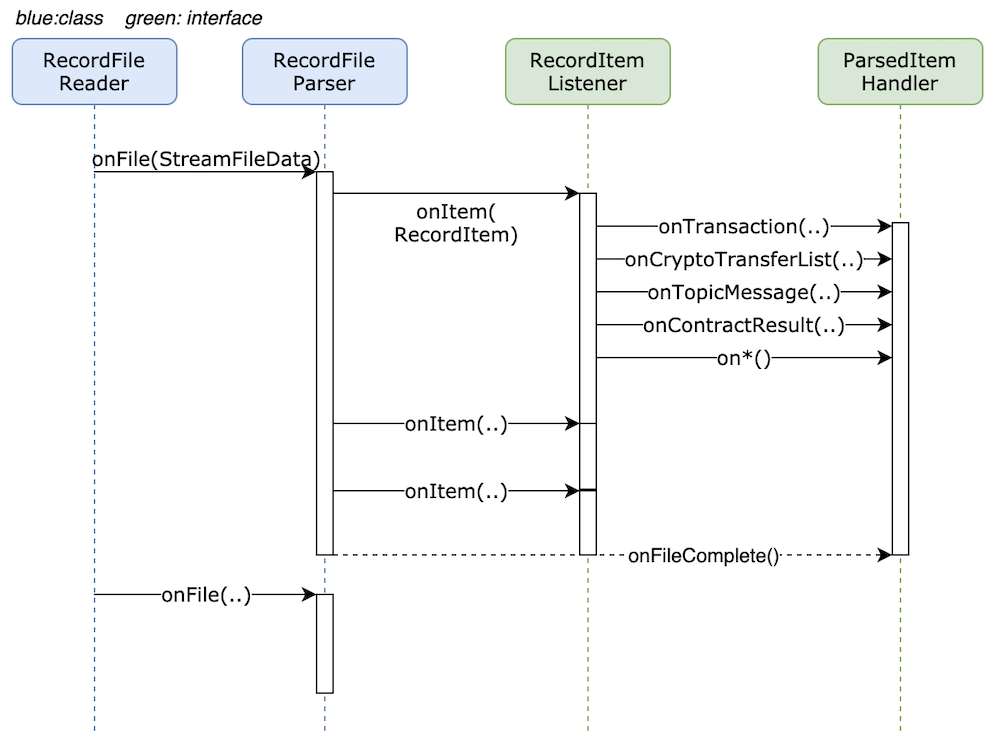
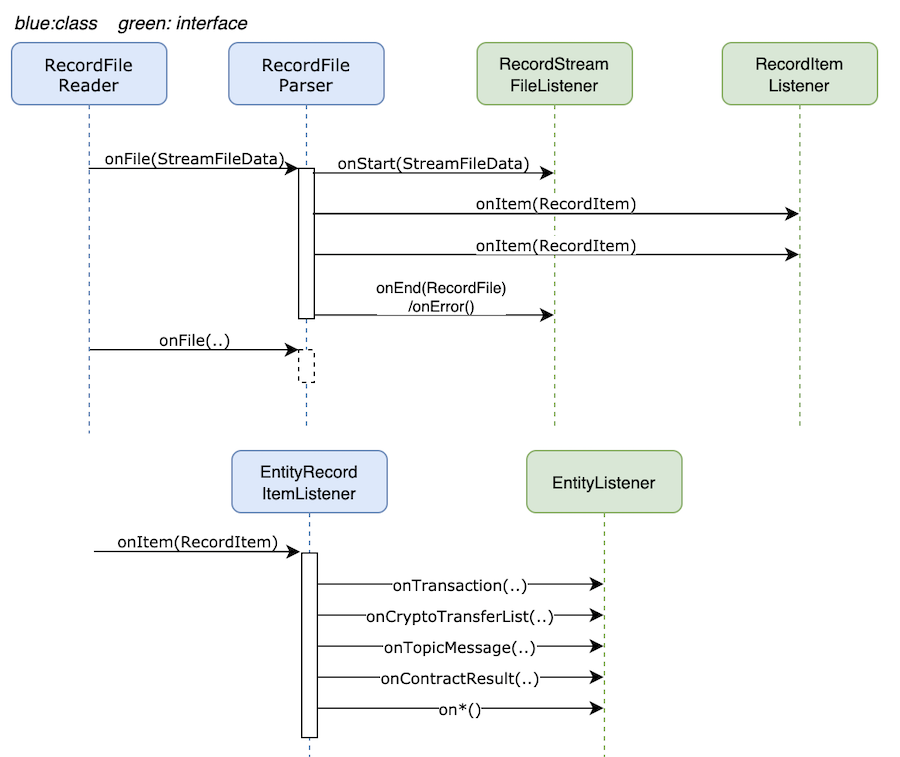
Update parser design doc

diff --git a/hedera-mirror-importer/src/test/java/com/hedera/mirror/importer/parser/record/entity/sql/SqlEntityListenerTest.java b/hedera-mirror-importer/src/test/java/com/hedera/mirror/importer/parser/record/entity/sql/SqlEntityListenerTest.java
@@ -110,8 +110,8 @@ public class SqlEntityListenerTest extends IntegrationTest {
         CryptoTransfer cryptoTransfer2 = new CryptoTransfer(2L, -2L, 0L, 2L);
 
         // when
-        sqlEntityListener.onCryptoTransferList(cryptoTransfer1);
-        sqlEntityListener.onCryptoTransferList(cryptoTransfer2);
+        sqlEntityListener.onCryptoTransfer(cryptoTransfer1);
+        sqlEntityListener.onCryptoTransfer(cryptoTransfer2);
         completeFileAndCommit();
 
         // then
@@ -251,7 +251,7 @@ public class SqlEntityListenerTest extends IntegrationTest {
     void onError() {
         // when
         sqlEntityListener.onNonFeeTransfer(new NonFeeTransfer(1L, 1L, 0L, 1L));
-        sqlEntityListener.onCryptoTransferList(new CryptoTransfer(2L, -2L, 0L, 2L));
+        sqlEntityListener.onCryptoTransfer(new CryptoTransfer(2L, -2L, 0L, 2L));
         sqlEntityListener.onError();
 
         // then

diff --git a/hedera-mirror-importer/src/main/java/com/hedera/mirror/importer/parser/record/entity/EntityRecordItemListener.java b/hedera-mirror-importer/src/main/java/com/hedera/mirror/importer/parser/record/entity/EntityRecordItemListener.java
@@ -307,7 +307,7 @@ public class EntityRecordItemListener implements RecordItemListener {
 
     private void addCryptoTransferList(long consensusTimestamp, long realmNum, long accountNum, long amount) {
         entityListener
-                .onCryptoTransferList(new CryptoTransfer(consensusTimestamp, amount, realmNum, accountNum));
+                .onCryptoTransfer(new CryptoTransfer(consensusTimestamp, amount, realmNum, accountNum));
     }
 
     private void insertFileUpdate(long consensusTimestamp, FileUpdateTransactionBody transactionBody) {

diff --git a/hedera-mirror-importer/src/main/java/com/hedera/mirror/importer/parser/record/entity/sql/SqlEntityListener.java b/hedera-mirror-importer/src/main/java/com/hedera/mirror/importer/parser/record/entity/sql/SqlEntityListener.java
@@ -218,7 +218,7 @@ public class SqlEntityListener implements EntityListener, RecordStreamFileListen
     }
 
     @Override
-    public void onCryptoTransferList(CryptoTransfer cryptoTransfer) throws ImporterException {
+    public void onCryptoTransfer(CryptoTransfer cryptoTransfer) throws ImporterException {
         try {
             sqlInsertTransferList.setLong(F_TRANSFERLIST.CONSENSUS_TIMESTAMP.ordinal(),
                     cryptoTransfer.getConsensusTimestamp());

diff --git a/hedera-mirror-importer/src/main/java/com/hedera/mirror/importer/parser/record/entity/EntityListener.java b/hedera-mirror-importer/src/main/java/com/hedera/mirror/importer/parser/record/entity/EntityListener.java
@@ -35,7 +35,7 @@ import com.hedera.mirror.importer.exception.ImporterException;
 public interface EntityListener {
     void onTransaction(Transaction transaction) throws ImporterException;
 
-    void onCryptoTransferList(CryptoTransfer cryptoTransfer) throws ImporterException;
+    void onCryptoTransfer(CryptoTransfer cryptoTransfer) throws ImporterException;
 
     void onNonFeeTransfer(NonFeeTransfer nonFeeTransfer) throws ImporterException;
 

diff --git a/docs/design/parser.md b/docs/design/parser.md
@@ -33,54 +33,7 @@ SQL Database client is tightly coupled with transaction & record's processor whi
 
 ![Control Flow](images/parser-control-flow.png)
 
-### ParsedItemHandler
-
-```java
-package com.hedera.mirror.importer.parser;
-
-public interface ParsedItemHandler {
-    void onFileComplete() throws ImporterException;
-    void onError();
-}
-```
-
-```java
-package com.hedera.mirror.importer.parser.record;
-
-public interface RecordParsedItemHandler extends ParsedItemHandler {
-    void onTransaction(c.h.m.i.d.Transaction transaction) throws ImporterException;
-    void onCryptoTransferList(c.h.m.i.d.CryptoTransfer cryptoTransfer) throws ImporterException;
-    void onNonFeeTransfer(c.h.m.i.d.NonFeeTransfer nonFeeTransfer) throws ImporterException;
-    void onTopicMessage(c.h.m.i.d.TopicMessage topicMessage) throws ImporterException;
-    void onContractResult(c.h.m.i.d.ContractResult contractResult) throws ImporterException;
-    void onFileData(c.h.m.i.d.FileData fileData) throws ImporterException;
-    void onLiveHash(c.h.m.i.d.LiveHash liveHash) throws ImporterException;
-}
-```
-
-```java
-package com.hedera.mirror.importer.parser.balance;
-
-public interface BalanceParsedItemHandler extends ParsedItemHandler {
-    void onBalance(c.h.m.i.d.Balance balance) throws ImporterException;
-}
-```
-
-1. There will be following implementations for `RecordParsedItemHandler`:
-    1. `PostgresWritingRecordParsedItemHandler`:
-        - For writing stream data to Postgres database
-        - For `data-generator` to test database insert performance in isolation (from parser)
-    1. `NullRecordParsedItemHandler`: Discards all items and do nothing.
-        - For micro-benchmarking parser performance
-    1. `StreamFileWriterRecordParsedItemHandler`: Package stream data into .rcd/balance/etc file.
-        - For `data-generator` to generate custom stream files for testing: end-to-end importer perf test, parser + db
-          perf test, isolated parser micro-benchmark, etc
-
-Note that there are no functions for entities. Updating entities in batch in not possible right now since
-`t_transactions` table refers to entity ids. For entities, first, schema changes are needed to remove entity ids,
-then `onEntity` and `onEntityUpdate` functions will be added to insert/update entities in bulk. For the purpose of
-immediate refactor, we can leave entities in `RecordItemParser` (until perf optimizations via schema change in
-milestone 2).
+## Interfaces and Classes
 
 ### StreamItemListener
 
@@ -92,6 +45,15 @@ public interface StreamItem {
 ```
 
 ```java
+package com.hedera.mirror.importer.parser;
+
+public interface StreamItemListener<T extends StreamItem> {
+    void onItem(T item) throws ImporterException;
+}
+```
+### RecordItemListener
+
+```java
 package com.hedera.mirror.importer.parser.domain;
 
 @Value
@@ -100,16 +62,7 @@ public class RecordItem implements StreamItem {
     private final TransactionRecord record;
     private final byte[] transactionBytes;
     private final byte[] recordBytes;
-}
-```
-
--   Similarly for balance and event streams
-
-```java
-package com.hedera.mirror.importer.parser;
-
-public interface StreamItemListener<T extends StreamItem> {
-    void onItem(T item) throws ImporterException;
+    // ... other fields...
 }
 ```
 
@@ -122,13 +75,13 @@ public interface RecordItemListener extends StreamItemListener<RecordItem> {
 
 -   Similarly for balance and event streams
 
-#### RecordItemParser
+### EntityRecordItemListener
 
 ```java
 package com.hedera.mirror.importer.parser.record;
 
-public class RecordItemParser implements RecordItemListener {
-    private final RecordParsedItemHandler recordParsedItemHandler;  // injected dependency
+public class EntityRecordItemListener implements RecordItemListener {
+    private final EntityListener entityListener;  // injected dependency
 
     public void onItem(RecordItem recordItem) throws ImporterException {
         // process recordItem
@@ -139,6 +92,35 @@ public class RecordItemParser implements RecordItemListener {
 1. Parse `Transaction` and `TransactionRecord` in the `recordItem`
 1. Calls `onTransaction`/`onTopicMessage`/`onCryptoTransferLists` etc
 
+### EntityListener
+
+```java
+package com.hedera.mirror.importer.parser.record;
+
+public interface EntityListener {
+    void onTransaction(c.h.m.i.d.Transaction transaction) throws ImporterException;
+    void onCryptoTransfer(c.h.m.i.d.CryptoTransfer cryptoTransfer) throws ImporterException;
+    void onNonFeeTransfer(c.h.m.i.d.NonFeeTransfer nonFeeTransfer) throws ImporterException;
+    void onTopicMessage(c.h.m.i.d.TopicMessage topicMessage) throws ImporterException;
+    void onContractResult(c.h.m.i.d.ContractResult contractResult) throws ImporterException;
+    void onFileData(c.h.m.i.d.FileData fileData) throws ImporterException;
+    void onLiveHash(c.h.m.i.d.LiveHash liveHash) throws ImporterException;
+}
+```
+
+1. There will be following implementations for `EntityListener`:
+    1. `SqlEntityListener`:
+        - For writing entities to SQL database
+        - Useful for testing database insert performance in isolation from parser
+    1. `NullEntityListener`: No-op implementation
+        - For micro-benchmarking parser performance
+
+Note that there are no function for `onEntity`. Updating entities in batch in not possible right now since
+`t_transactions` table uses foreign keys. For entities, first, schema changes are needed to remove entity ids,
+then `onEntity` and `onEntityUpdate` functions will be added to insert/update entities in bulk. For the purpose of
+immediate refactor, we can leave entities in `EntityRecordItemListener` (until perf optimizations via schema change in
+milestone 2).
+
 ### RecordFileParser
 
 ```java
@@ -146,8 +128,8 @@ package com.hedera.mirror.importer.parser.domain;
 
 @Value
 public class StreamFileData {
-    String filename;
-    InputStream inputStream;
+    private final String filename;
+    private final InputStream inputStream;
 }
 ```
 
@@ -158,7 +140,7 @@ package com.hedera.mirror.importer.parser.record;
 public class RecordFileParser {
 
     private final RecordItemListener recordItemListener;  // injected dependency
-    private final RecordParsedItemHandler recordParsedItemHandler;  // injected dependency
+    private final RecordStreamFileListener recordStreamFileListener;  // injected dependency
 
     void onFile(StreamFileData streamFileData) {
         // process stream file
@@ -168,9 +150,10 @@ public class RecordFileParser {
 
 1. On each call to `onFile(streamFileData)`:
     1. Validate prev hash
+    1. Call `recordStreamFileListener.onStart(streamFileData)`
     1. For each set of `Transaction` and `TransactionRecord` in record file, call `recordItemListener.onItem(recordItem)`.
-    1. Finally call `parsedItemHandler.onFileComplete()`
-    1. On exceptions, call `parsedItemHandler.onError(error)`
+    1. Finally call `recordStreamFileListener.onEnd(recordFile)`
+    1. On exceptions, call `recordStreamFileListener.onError(error)`
 
 ### RecordFileReader
 
@@ -202,42 +185,44 @@ public class RecordFileReader extends FileWatcher {
 
 ## Tasks (in suggested order):
 
-#### Milestone 1
+#### Milestone 1 (done)
 
 1. Finalize design
 1. Refactoring
     1. Add the interfaces and domains ([#564](https://github.com/hashgraph/hedera-mirror-node/issues/564))
     1. Split `RecordFileLogger` class into two
-        1. Create `PostgresWritingRecordParsedItemHandler`. Move existing postgres writer code from `RecordFileLogger`
+        1. Create `SqlEntityListener`. Move existing sql writer code from `RecordFileLogger`
            to new class as-is. ([#566](https://github.com/hashgraph/hedera-mirror-node/issues/566))
-        1. Rename `RecordFileLogger` to `RecordItemParser`. Add `.. implements RecordItemListener`
+        1. Change `RecordFileLogger` to `class EntityRecordItemListener implements RecordItemListener {...}`
            ([#567](https://github.com/hashgraph/hedera-mirror-node/issues/567))
 
 #### Milestone 2
 
 All top level tasks can be done in parallel.
 
+1. Implement `PubSubRecordItemListner` for `blockchain-etl` project (done)
 1. Split `RecordFileParser` class into two ([#568](https://github.com/hashgraph/hedera-mirror-node/issues/568))
     - Move FileSystem related code into `RecordFileReader`
     - Keep `RecordFileParser` agnostic of source of stream files
 1. Perf
-    1. Hook up `PostgresWritingRecordParsedItemHandler` with `data-generator` to test db insert performance and
+    1. Hook up `SqlEntityListener` with `data-generator` to test db insert performance and
        establish baseline ([#569](https://github.com/hashgraph/hedera-mirror-node/issues/569))
-    1. Optimize `PostgresWritingRecordParsedItemHandler` ([#570](https://github.com/hashgraph/hedera-mirror-node/issues/570))
+    1. Optimize `SqlEntityListener` ([#570](https://github.com/hashgraph/hedera-mirror-node/issues/570))
         - Schema changes to remove entity ids (while at it, remove `fildId` from `t_transactions`)
         - Get rid of all `SELECT` queries in parser
         - Use of `COPY`
         - Concurrency using multiple jdbc connections
-1. Refactor `RecordItemParser` class. Split parsing logic into re-usable helper functions.
-   ([#571](https://github.com/hashgraph/hedera-mirror-node/issues/571)) - Will make it easy for mirror node users to write custom parsers - Will make it possible to have filtering logic less loosely coupled with parsing logic
-1. Implement `BigQueryWritingRecordParsedItemHandler` for `blockchain-etl` project (if needed)
+1. Refactor `EntityRecordItemListener` class. Split parsing logic into re-usable helper functions.
+   ([#571](https://github.com/hashgraph/hedera-mirror-node/issues/571))
+   - Will make it easy for mirror node users to write custom parsers
+   - Will make it possible to have filtering logic less loosely coupled with parsing logic
 
 #### Milestone 3 (followup tasks to tie loose ends)
 
 -   Remove event parser code: Doesn't have tests. Not used in last 6 months. No likelihood of needed in next couple months
     There is no need to pay tech-rent on this debt. Can be dont right once when it is really needed.
-    ([#572](https://github.com/hashgraph/hedera-mirror-node/issues/572))
--   Delete files once they are parsed ([#259](https://github.com/hashgraph/hedera-mirror-node/issues/259))
+    ([#572](https://github.com/hashgraph/hedera-mirror-node/issues/572)) (done)
+-   Delete files once they are parsed ([#259](https://github.com/hashgraph/hedera-mirror-node/issues/259)) (done)
 -   Update balance file parser code to new design ([#573](https://github.com/hashgraph/hedera-mirror-node/issues/573))
     -   Share as much filesystem related code as possible between `RecordFileReader` and `BalanceFileParser`
         (to be renamed to `BalanceStreamReader`)
